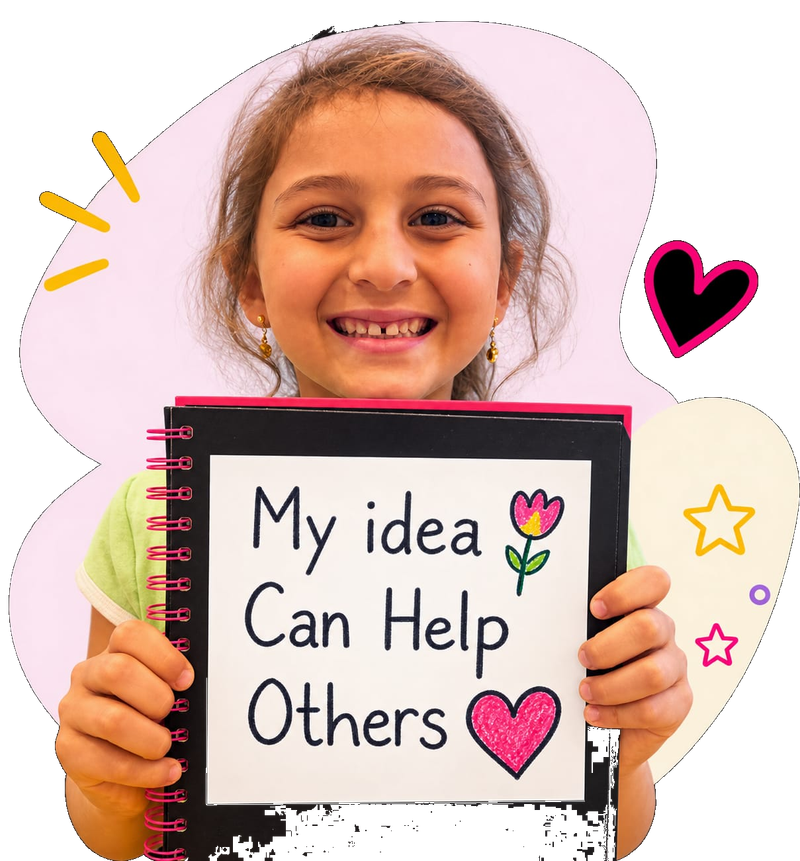
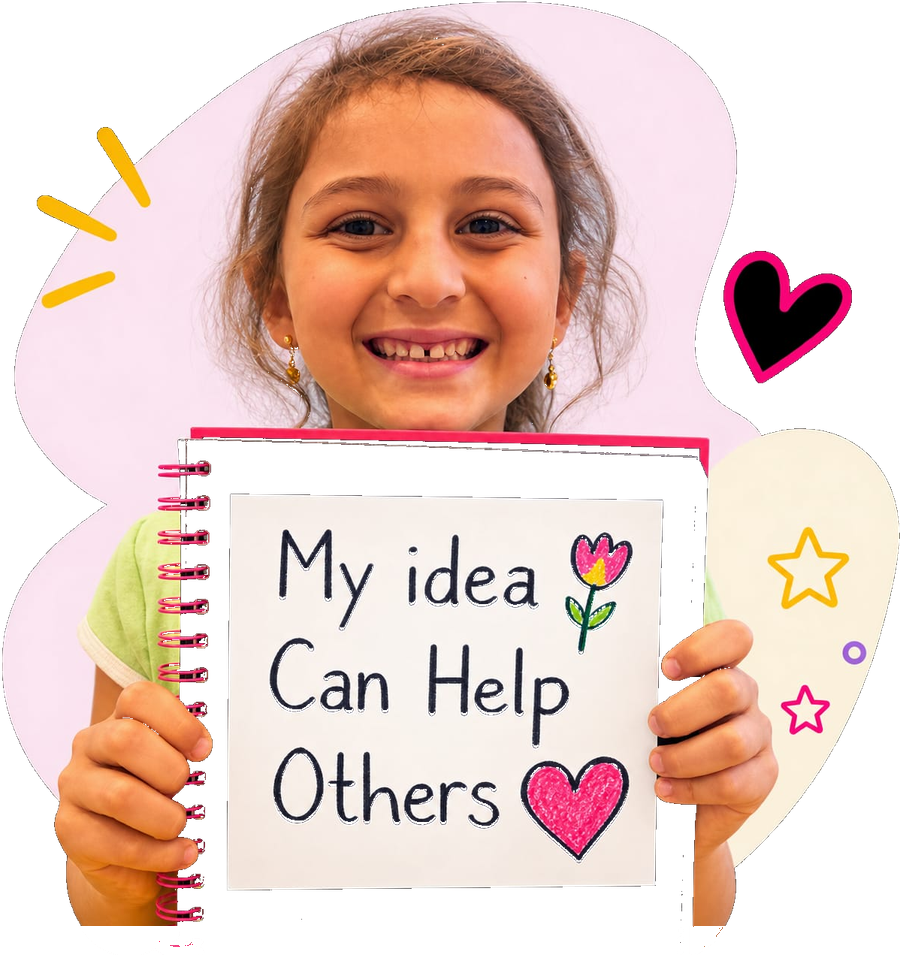
Fix About journey image matte/crop and match Give grow stage size.
EOF

diff --git a/assets/css/style.css b/assets/css/style.css
@@ -6603,6 +6603,13 @@ img.lazy-img.loaded {
   background: transparent;
 }
 
+/* Give lockup sits smaller in-canvas — nudge to match sibling stage height */
+.explore-grow-stage--give.explore-grow-stage--lockup .explore-grow-stage__photo,
+.explore-grow-stage--give.explore-grow-stage--lockup .explore-grow-stage__layout > .lazy-img-wrap .explore-grow-stage__photo {
+  transform: scale(1.12);
+  transform-origin: center center;
+}
+
 .explore-grow-stage__body {
   min-width: 0;
   padding: clamp(0.15rem, 0.35vw, 0.35rem) clamp(0.1rem, 0.3vw, 0.25rem)
@@ -9032,7 +9039,8 @@ img.lazy-img.loaded {
 
 .panel-card--journey {
   display: flex;
-  align-items: stretch;
+  align-items: center;
+  overflow: visible;
   background-color: var(--panel-cream);
   background-image: none;
 }
@@ -9047,7 +9055,7 @@ img.lazy-img.loaded {
   flex: 1 1 0;
   width: auto;
   min-width: 0;
-  max-width: calc(100% - var(--panel-council-figure-width) - clamp(0.5rem, 1vw, 0.85rem));
+  max-width: calc(100% - clamp(200px, 24vw, 280px) - clamp(0.5rem, 1vw, 0.85rem));
   box-sizing: border-box;
 }
 
@@ -9075,11 +9083,26 @@ img.lazy-img.loaded {
 
 .panel-card--journey .panel-card__figure {
   background-color: transparent;
+  overflow: visible;
+  max-height: none;
 }
 
 .panel-card--journey .panel-card__figure-img,
 .panel-card--journey .panel-card__figure .lazy-img-wrap {
   background-color: transparent;
+  max-height: none;
+}
+
+.panel-card--journey .panel-card__figure-img {
+  width: clamp(200px, 24vw, 280px);
+  height: auto;
+  object-fit: contain;
+  object-position: center bottom;
+}
+
+.panel-card--journey .panel-card__figure .lazy-img-wrap {
+  width: clamp(200px, 24vw, 280px);
+  max-width: 100%;
 }
 
 .panel-card--council .panel-card__figure {
